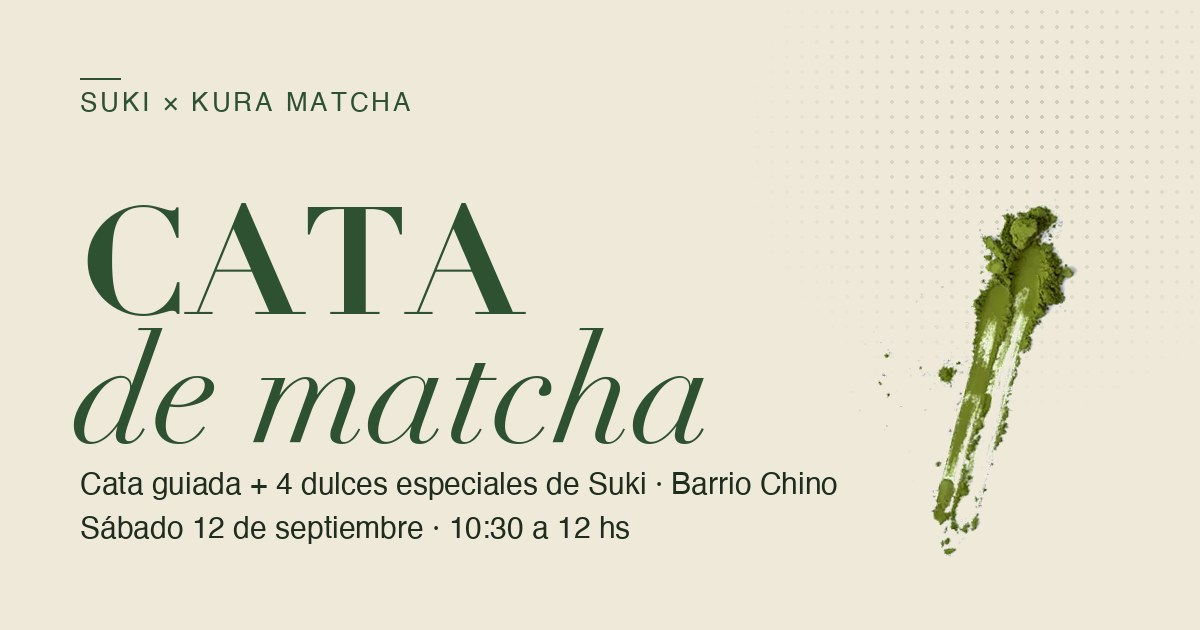
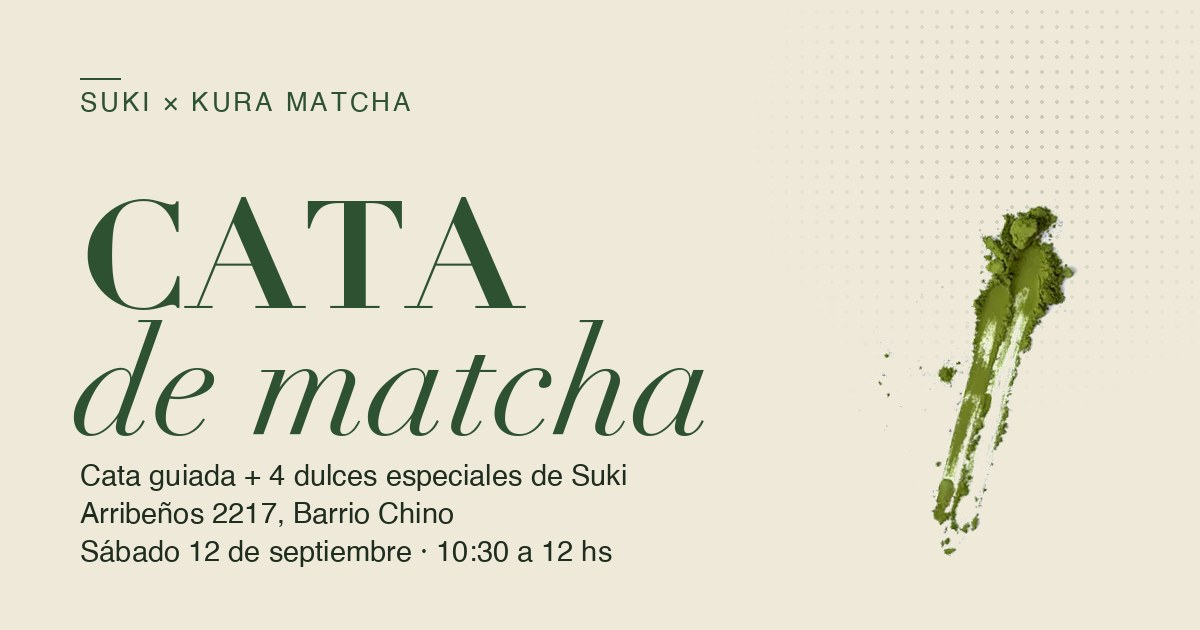
Cata: agregar dirección Arribeños 2217, Barrio Chino
En el dato "Lugar" de la landing, en metas og/twitter, promo y pop-up
del inicio, mensaje de compartir y la imagen de preview. Sin cambios
de layout.

diff --git a/cata.html b/cata.html
@@ -4,14 +4,14 @@
   <meta charset="utf-8" />
   <meta name="viewport" content="width=device-width, initial-scale=1" />
   <title>Cata de matcha · SUKI × Kura Matcha</title>
-  <meta name="description" content="Cata de matcha y 4 dulces especiales de Suki en Barrio Chino, Buenos Aires. Sábado 12 de septiembre, 10:30 a 12 hs. Reservá tu lugar." />
+  <meta name="description" content="Cata de matcha y 4 dulces especiales de Suki en Arribeños 2217, Barrio Chino. Sábado 12 de septiembre, 10:30 a 12 hs. Reservá tu lugar." />
   <meta name="robots" content="index, follow" />
   <link rel="canonical" href="https://www.arlemgroup.com/cata.html" />
   <meta property="og:type" content="website" />
   <meta property="og:site_name" content="Kura Matcha" />
   <meta property="og:url" content="https://www.arlemgroup.com/cata.html" />
   <meta property="og:title" content="Cata de matcha · SUKI × Kura" />
-  <meta property="og:description" content="Cata de matcha y 4 dulces especiales de Suki en Barrio Chino, Buenos Aires. Sáb 12 de septiembre, 10:30 a 12 hs." />
+  <meta property="og:description" content="Cata de matcha y 4 dulces especiales de Suki en Arribeños 2217, Barrio Chino. Sáb 12 de septiembre, 10:30 a 12 hs." />
   <meta property="og:locale" content="es_AR" />
   <meta property="og:image" content="https://www.arlemgroup.com/public/cata-og.jpg" />
   <meta property="og:image:secure_url" content="https://www.arlemgroup.com/public/cata-og.jpg" />
@@ -21,7 +21,7 @@
   <meta property="og:image:alt" content="Cata de matcha · SUKI × Kura Matcha" />
   <meta name="twitter:card" content="summary_large_image" />
   <meta name="twitter:title" content="Cata de matcha · SUKI × Kura" />
-  <meta name="twitter:description" content="Cata de matcha y 4 dulces especiales de Suki en Barrio Chino, Buenos Aires. Sáb 12 de septiembre, 10:30 a 12 hs." />
+  <meta name="twitter:description" content="Cata de matcha y 4 dulces especiales de Suki en Arribeños 2217, Barrio Chino. Sáb 12 de septiembre, 10:30 a 12 hs." />
   <meta name="twitter:image" content="https://www.arlemgroup.com/public/cata-og.jpg" />
   <link rel="icon" type="image/x-icon" href="favicon.ico" />
   <link rel="icon" type="image/png" sizes="32x32" href="public/kura-logo.png" />
@@ -586,7 +586,7 @@
     <div class="facts">
       <div><span class="fact__k">Fecha</span><span class="fact__v">Sáb 12 de septiembre</span></div>
       <div><span class="fact__k">Hora</span><span class="fact__v">10:30 a 12 hs</span></div>
-      <div><span class="fact__k">Lugar</span><span class="fact__v">Barrio Chino, Buenos Aires</span></div>
+      <div><span class="fact__k">Lugar</span><span class="fact__v">Arribeños 2217, Barrio Chino</span></div>
       <div><span class="fact__k">Valor</span><span class="fact__v">$60.000 por persona</span></div>
     </div>
 
@@ -716,7 +716,7 @@
 (function () {
   var SHARE_URL  = 'https://kuramatcha.com/cata.html';
   var SHARE_TITLE = 'Cata de matcha · SUKI × Kura';
-  var SHARE_TEXT = 'Te invito a la Cata de matcha 🍵 SUKI × Kura Matcha. Cata guiada + 4 dulces especiales de Suki en Barrio Chino. Sáb 12 de septiembre, 10:30 a 12 hs. Reservá tu lugar:';
+  var SHARE_TEXT = 'Te invito a la Cata de matcha 🍵 SUKI × Kura Matcha. Cata guiada + 4 dulces especiales de Suki en Arribeños 2217, Barrio Chino. Sáb 12 de septiembre, 10:30 a 12 hs. Reservá tu lugar:';
 
   var pop   = document.getElementById('share-pop');
   var openBtns = document.querySelectorAll('#share-open, #share-open-top');

diff --git a/index.html b/index.html
@@ -345,7 +345,7 @@
     <span class="cata-promo__label">SUKI × Kura</span>
     <div class="cata-promo__main">
       <span class="cata-promo__title">Cata de matcha</span>
-      <span class="cata-promo__sub">Cata de matcha y dulces de Suki · Sáb 12 de septiembre · Barrio Chino, Buenos Aires</span>
+      <span class="cata-promo__sub">Cata de matcha y dulces de Suki · Sáb 12 de septiembre · Arribeños 2217, Barrio Chino</span>
     </div>
     <span class="cata-promo__cta">Reservar lugar <span class="cata-promo__arrow">→</span></span>
   </div>
@@ -452,7 +452,7 @@
     <button class="cata-pop__close" id="cata-pop-close" aria-label="Cerrar">✕</button>
     <span class="cata-pop__label">SUKI × Kura Matcha</span>
     <h3 class="cata-pop__title" id="cata-pop-title">Cata <em>de matcha</em></h3>
-    <p class="cata-pop__sub">Cata de matcha y 4 dulces especiales de Suki en Barrio Chino, Buenos Aires. Sábado 12 de septiembre, 10:30 a 12 hs.</p>
+    <p class="cata-pop__sub">Cata de matcha y 4 dulces especiales de Suki en Arribeños 2217, Barrio Chino. Sábado 12 de septiembre, 10:30 a 12 hs.</p>
     <a class="cata-pop__cta" href="cata.html">Reservar mi lugar <span aria-hidden="true">→</span></a>
   </div>
 </div>
